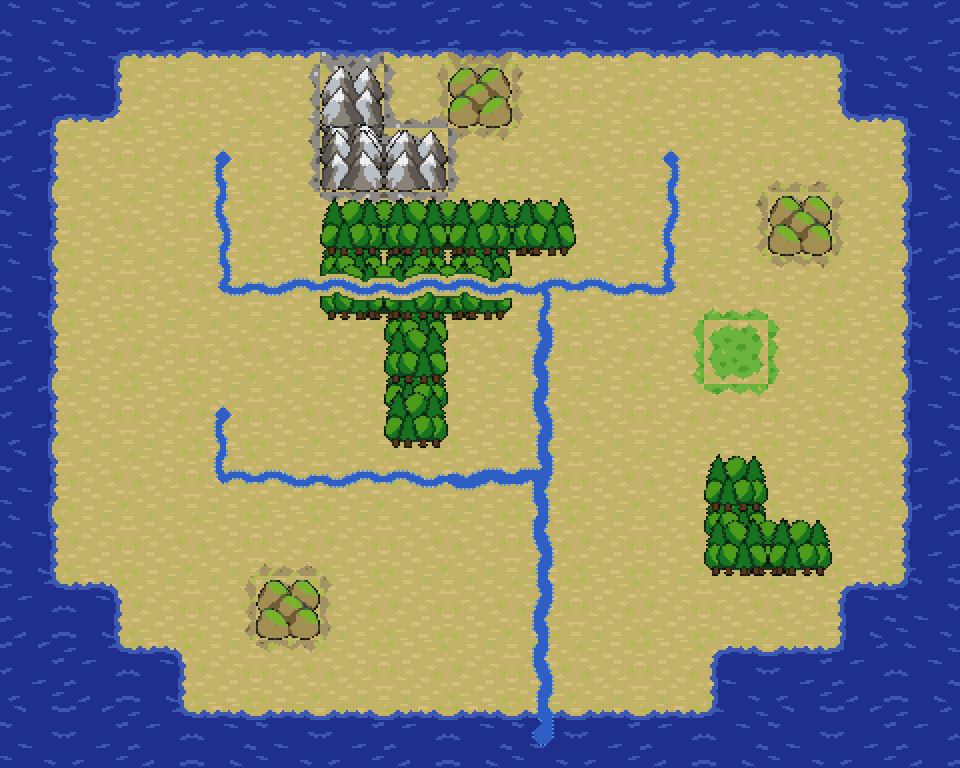
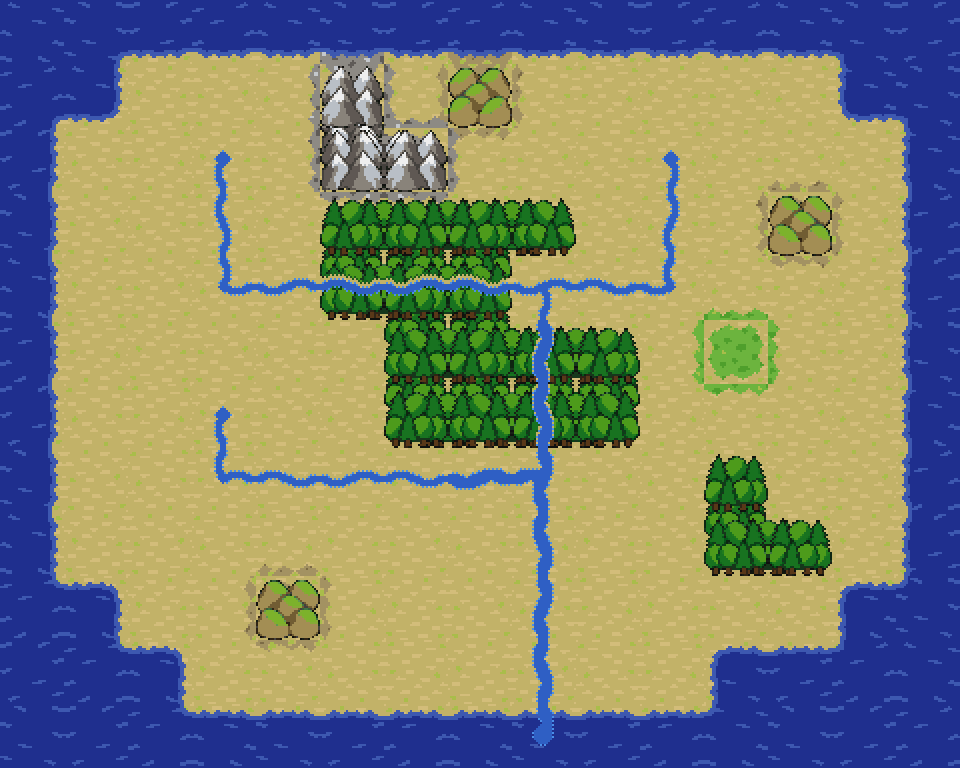
R-1047: cut a forest back from the far bank of its river only
The canopy is taken away under the river and two cells straight above it on the
32 grid (one on the 16), the trees above the cut shaded; the trees on the near
bank and to either side stand right up to the water. The owner's call, for a
hint of perspective. Test: pixel-art.test.ts, "a river runs through a forest".

Changed region(s): [[0.3438, 0.3438, 0.6875, 0.5938]]

diff --git a/test/unit/ui/pixel-art.test.ts b/test/unit/ui/pixel-art.test.ts
@@ -495,7 +495,7 @@ describe('detailed terrain', () => {
     }
   });
 
-  it('a river runs through a forest in a clearing and over the hills and the mountains: every cell of its body and of its rim shows', () => {
+  it('a river runs through a forest, cut back from its far bank, and over the hills and the mountains: every cell of its body and of its rim shows', () => {
     for (const grid of [32, 16] as const) {
       for (const river of ['minor', 'major'] as const) {
         const stroke = overArt(look({ river, riverMask: 10 }), grid);
@@ -505,20 +505,22 @@ describe('detailed terrain', () => {
             const bare = overArt(look({ variant, river, riverMask: 10 }), grid);
             const over = overArt(look({ terrain, variant, river, riverMask: 10 }), grid);
             for (let i = 0; i < bare.cells.length; i++) if (bare.cells[i] !== 0) expect(over.cells[i], `${grid} ${terrain} ${variant}`).toBe(bare.cells[i]);
-            // a forest is cut back from the water (two cells on the 32 grid, one on the 16) and shaded at the cut;
-            // the hills and the mountains are not: the river lies on them
+            // a forest is cut back from the far bank alone: no canopy within two cells straight above the water on
+            // the 32 grid (one on the 16), the trees just above the cut shaded, and every other cell as it was,
+            // so the trees on the near bank and to either side stand right up to the water; the hills and the
+            // mountains are not cut at all: the river lies on them
             const dry = overArt(look({ terrain, variant }), grid);
             const reach = grid === 32 ? 2 : 1;
             const wet = (x: number, y: number): boolean => at(bare, x, y) !== 0;
-            const near = (x: number, y: number, by: number): boolean => Array.from({ length: 2 * by + 1 }, (_, j) => j - by).some((dy) => Array.from({ length: 2 * by + 1 }, (_, j) => j - by).some((dx) => wet(x + dx, y + dy)));
+            const above = (x: number, y: number, by: number): boolean => Array.from({ length: by }, (_, j) => j + 1).some((dy) => wet(x, y + dy));
             let shaded = 0;
             for (let y = 0; y < grid; y++) {
               for (let x = 0; x < grid; x++) {
                 if (wet(x, y)) continue;
                 const where = `${grid} ${terrain} ${variant} (${x}, ${y})`;
                 if (!(FORESTS as readonly string[]).includes(terrain)) expect(at(over, x, y), where).toBe(at(dry, x, y));
-                else if (near(x, y, reach)) expect(at(over, x, y), where).toBe(0);
-                else if (!near(x, y, reach + 1)) expect(at(over, x, y), where).toBe(at(dry, x, y));
+                else if (above(x, y, reach)) expect(at(over, x, y), where).toBe(0);
+                else if (!above(x, y, reach + 1)) expect(at(over, x, y), where).toBe(at(dry, x, y));
                 else if (at(over, x, y) !== at(dry, x, y)) {
                   expect(at(over, x, y) - 1, where).toBe(INK.deepForest);
                   shaded++;

diff --git a/src/ui/pixel-art.ts b/src/ui/pixel-art.ts
@@ -853,10 +853,11 @@ function joined(s: Sprite, look: TileLook): void {
 }
 
 /**
- * A river's way through a forest: the canopy is cut back from the water, so that the river runs through the
- * trees on open ground and not over their crowns. Every cell of the forest within `CLEARING` cells of the
- * river (body or rim, corners counted) is taken away, and the trees left standing at the cut are shaded, as
- * the foot of a wood is.
+ * A river's way through a forest: the canopy is cut back from the water's far bank alone, so that the river
+ * runs through the trees and not over their crowns. Every cell of the forest with river (body or rim) under
+ * it or within `CLEARING` cells straight below it is taken away, and the trees left standing above the cut
+ * are shaded, as the foot of a wood is. The trees on the near bank and to either side stand right up to the
+ * water, which is what makes the far bank read as lying behind it.
  */
 const CLEARING: Readonly<Record<TileGrid, number>> = { 32: 2, 16: 1 };
 function cleared(s: Sprite, water: Sprite): void {
@@ -865,23 +866,24 @@ function cleared(s: Sprite, water: Sprite): void {
   for (let y = 0; y < s.size; y++) {
     for (let x = 0; x < s.size; x++) {
       if (at(s, x, y) === 0) continue;
-      let near = false;
-      for (let dy = -reach; dy <= reach && !near; dy++) for (let dx = -reach; dx <= reach && !near; dx++) near = at(water, x + dx, y + dy) !== 0;
-      if (near) cut.push(y * s.size + x);
+      for (let dy = 0; dy <= reach; dy++) {
+        if (at(water, x, y + dy) === 0) continue;
+        cut.push(y * s.size + x);
+        break;
+      }
     }
   }
   for (const i of cut) s.cells[i] = 0;
-  const gone = new Set(cut);
   for (const i of cut) {
     const [x, y] = [i % s.size, Math.floor(i / s.size)];
-    for (const [dx, dy] of TOWARD) if (at(s, x + dx, y + dy) !== 0 && !gone.has((y + dy) * s.size + x + dx)) dot(s, x + dx, y + dy, INK.deepForest);
+    if (at(s, x, y - 1) !== 0) dot(s, x, y - 1, INK.deepForest);
   }
 }
 
 /**
  * Everything that stands on a square's floor, see-through elsewhere, in this order: the joins (the forest,
  * hills or mountains once more toward each neighbour of its kind); the forest, hills or mountains; furrows;
- * the river, which lies on hills and mountains and runs through a forest in a clearing cut for it, since a
+ * the river, which lies on hills and mountains and runs through a forest with the canopy cut back from its far bank, since a
  * canopy that fills its square would hide it, or on a water square the mouths of the rivers beside it; the resource marker, at its own size; the lost-city seal,
  * drawn for the grid; the road; the totem. The forest or relief is the baked picture of the grid, and the
  * river and the mouths are drawn for the grid, body and rim. On the 32-pixel grid the furrows, the road and

diff --git a/docs/ARCHITECTURE.md b/docs/ARCHITECTURE.md
@@ -70,7 +70,7 @@ builds one, what it loads, where it goes, and the answers given in the trade tal
 
 ## `src/ui/`
 `unit-art.ts`, `place-art.ts`, `floor-art.ts` and `feature-art.ts` are the detailed pictures of units, colonies and native settlements, the ground of each terrain, and the forests, hills and mountains that stand on it, on a 32-pixel grid, written by `scripts/bake-art.py` from the pictures kept in `art/` (our own, constraint C1); `pixel-art.ts` adds the owner's colour, the orders tab and the other marks, and `render.ts` and `tiles.ts` use them wherever a square is at least 32 pixels (from there up `view.ts` keeps a square a multiple of 32), falling back to the 16-pixel art below that. The ground and the forests, hills and mountains are baked a second time at 16 pixels in the colours of the 32-pixel bake (`FLOOR_ART_16`, `FEATURE_ART_16`, R-1042), and the 16-pixel grid draws those, turned by the variant as the 32-pixel grid turns its own, so that the third zoom is the same painted world as the two nearest; the ground, trees and relief drawn in code remain only for a terrain that has no baked picture. `resource-art.ts` is the marker of each special resource, baked the same way from `art/resources` at 24 pixels and again at 12 in the same colours: `pixel-art.ts` stamps the one in the middle of a 32-pixel square and the other in the middle of a 16-pixel one, after the forest and before the road. How a picture is generated, the palette it is painted against and the steps from a source picture to a baked file are in `docs/ART.md`; `scripts/contact-sheet.py` lays a folder of the baked sprites out as one labelled sheet to look at.
-A square on the map is drawn in layers above the smallest zoom (R-1041), all of them art in `pixel-art.ts` handed out by `tiles.ts` through the one sprite cache (`floorLayer`, `blendLayer`, `coastLayer`, `overLayer`): the floor of its open terrain (`floorArt(grid, terrain, variant)`, keyed `floor|grid|open|variant`); a little of each differing orthogonal neighbour's floor through that side's stencil (`EDGE_MASKS`, `blendArt`, keyed `blend|grid|side|open|variant`); on a water square with land about it, which is painted as that land (`landBeside` in `render.ts`), the water laid back in four quarters shaped by the land round each (`COAST_MASKS`, `coastArt`, keyed `coast|grid|water|quadrant|code|variant`); and everything that stands on the ground (`overArt(look, grid)`, keyed `over|` and the look's key). `renderGround` chooses the pieces from the map and what the viewer has seen; `tileArt` and `detailedTileArt` remain the whole square, floor under over, for the colony screen (`paintTile`) and the manual's pictures. `docs/VISUAL_CHECKLIST.md` point 13 says what the layers must show. Two masks on a square's look carry what its neighbours add to the over layer (R-1046), both worked out in `render.ts` from squares the viewer has seen and both part of `lookKey`: `joinMask`, the sides on which its forest, hills or mountains run on into the same beyond (`joins` in `pixel-art.ts` says what joins what), where the picture is drawn once more half a square over, under itself; and `mouthMask`, on a water square, the sides from which a river runs out into it, each drawn as the end of that river running to a pool in the middle. A river itself is drawn in code for its grid (R-1047, `river`, `mouths`, `arm`, `pond` and `rim` in `pixel-art.ts`, the numbers in the `RIVER` table): one of sixteen pieces by `riverMask`, made of a winding arm from each side it runs on to, a disc or a pool where they meet, and a broken pale rim along the banks; in a forest the canopy is cut back from it first (`cleared`), so that it runs through the trees and not over them; the smallest zoom draws a line one cell wide (`miniTileArt`). Point 15 of the checklist gives the over layer's order.
+A square on the map is drawn in layers above the smallest zoom (R-1041), all of them art in `pixel-art.ts` handed out by `tiles.ts` through the one sprite cache (`floorLayer`, `blendLayer`, `coastLayer`, `overLayer`): the floor of its open terrain (`floorArt(grid, terrain, variant)`, keyed `floor|grid|open|variant`); a little of each differing orthogonal neighbour's floor through that side's stencil (`EDGE_MASKS`, `blendArt`, keyed `blend|grid|side|open|variant`); on a water square with land about it, which is painted as that land (`landBeside` in `render.ts`), the water laid back in four quarters shaped by the land round each (`COAST_MASKS`, `coastArt`, keyed `coast|grid|water|quadrant|code|variant`); and everything that stands on the ground (`overArt(look, grid)`, keyed `over|` and the look's key). `renderGround` chooses the pieces from the map and what the viewer has seen; `tileArt` and `detailedTileArt` remain the whole square, floor under over, for the colony screen (`paintTile`) and the manual's pictures. `docs/VISUAL_CHECKLIST.md` point 13 says what the layers must show. Two masks on a square's look carry what its neighbours add to the over layer (R-1046), both worked out in `render.ts` from squares the viewer has seen and both part of `lookKey`: `joinMask`, the sides on which its forest, hills or mountains run on into the same beyond (`joins` in `pixel-art.ts` says what joins what), where the picture is drawn once more half a square over, under itself; and `mouthMask`, on a water square, the sides from which a river runs out into it, each drawn as the end of that river running to a pool in the middle. A river itself is drawn in code for its grid (R-1047, `river`, `mouths`, `arm`, `pond` and `rim` in `pixel-art.ts`, the numbers in the `RIVER` table): one of sixteen pieces by `riverMask`, made of a winding arm from each side it runs on to, a disc or a pool where they meet, and a broken pale rim along the banks; in a forest the canopy is cut back from its far bank first (`cleared`), so that it runs through the trees and not over them; the smallest zoom draws a line one cell wide (`miniTileArt`). Point 15 of the checklist gives the over layer's order.
 `chart.ts` and `chart-art.ts` are the explorer's chart the unexplored map is drawn as: `chart.ts` says where the compass roses, sea serpents and ships stand, from the map's seed and size alone (pure; one rose to a 24 x 24 region, the others one to an 8 x 8 cell at most), and `chart-art.ts` is the vellum floor and those pictures at 32, 16 and 8 pixels to the square, drawn by `scripts/draw-chart.py` into `art/chart/` and written out by `scripts/bake-art.py chart` in six inks of the map palette. `pixel-art.ts` turns them into sprites and adds the ink hatching along the edges of a vellum square that meet the known (an edge mask over the eight neighbours); `render.ts` draws a mark only while every square it covers is unexplored.
 `building-art.ts` and `goods-art.ts` are the colony screen's pictures (R-1013): one per building on the 32-pixel grid, roofed in the owner's colour, and one icon per good (and for hammers, crosses and bells) on the 16-pixel grid. Their sources in `art/buildings` and `art/goods` are drawn from plain shapes by `scripts/draw-colony-art.py` and baked by `scripts/bake-art.py buildings goods`. `pixel-art.ts` turns them into sprites (`buildingArt`, `goodArt`, `figureArt`), draws the flags of the four powers and the Crown (`flagArt`), and exports `drawGood` and `drawSprite` for any screen that paints them on a canvas; `colony-screen.ts` shows each building as its picture with its workers standing on it.
 `portraits.ts` and `portrait-art.ts` are the faces (R-1016): the four advisers (one per report module in `reports/`), the King, and each founding father, a head and shoulders 64 art pixels square in colours of the map palette alone, baked from `art/portraits` by `scripts/bake-art.py portraits`. The faces are invented; none is a likeness of a historical person. `portraits.ts` turns one into palette numbers, RGBA bytes or a canvas shown at a whole number of screen pixels to the art pixel; an adviser's coat is a key that takes the colour of the wax its report is sealed with. They are shown at the head of each report, at the head of each line of the Continental Congress report, in the dialogs the Crown and the Congress put to the player (`dialog.ts` takes a picture for the question and one per choice), and on a father's page of the encyclopedia.

diff --git a/docs/VISUAL_CHECKLIST.md b/docs/VISUAL_CHECKLIST.md
@@ -17,7 +17,7 @@ same renderer in the unit suite.
 |---|---|---|
 | 1 | Everything drawn in code is in one palette of 32 colours (`PALETTE` in `src/ui/pixel-art.ts`; the values and what each is for are in `docs/ART.md`). Every pixel on the canvas is a colour of that palette or of the baked pictures' own sets, which together are `ART_COLORS`, at most 255. | unit: the palette's 32 entries are distinct and pinned by value; `render.ts`, `tiles.ts`, `minimap.ts` contain no colour literals; `ART_COLORS` fits in a byte; every baked floor's commonest colour is its terrain's ground colour, and water is never the flat colour of any land. The reference canvas refuses a fill colour outside `PALETTE`. e2e: every canvas pixel at every zoom is a colour of `ART_COLORS`. |
 | 2 | One pixel grid: art is 16 x 16 to the square; squares are 64, 32, 16 or 8 pixels, so an art pixel is 4, 2, 1 or (halved art) 1 pixel. No smoothing. | unit: `tileSizeFor` gives multiples of 8; art is 16 x 16. e2e: no off-palette (blended) pixels. |
-| 3 | Every terrain can be told apart, open from wooded, hills and mountains by their shapes; rivers, roads, plowed fields, resources and rumors show. The ground and what stands on it are baked pictures on the 32 grid and smaller copies of the same pictures, in the same colours, on the 16 grid (R-1042): each ground textured in its own palette colour, each of the eight forests a canopy that fills its square and is told by its trees (spruce, pine, pine among round crowns, round crowns with autumn orange, palms, cypress in water, jungle, thorny bushes). A river is one of sixteen pieces by the sides it runs on to (`riverMask`), which are five shapes turned: an end, a straight, a bend, a tee and a cross, the cross also where it runs on to no side (R-1047). A neighbour the viewer has not seen continues nothing, so the piece tells nothing of the square beyond it; a river left with no side to run on to that way is a pool alone. It is drawn for its grid: a body of `blue` three art pixels wide for a minor river and five for a major one on the 32 grid, two and three on the 16, crossing each side on exactly the middle cells of that side so that two squares meet cell for cell; each arm winds a little to the right of the way in (the variant mirrors it), so opposite arms make an S; a bend, a tee and a cross meet in a disc a cell wider than the body, and an end has a pool there; every other cell along both banks is `brightBlue`, a broken pale rim that never touches itself, lies on no body cell and keeps off the outermost cells of the square. Through a forest it runs in a clearing: the canopy, joins and all, is cut back two art pixels from the water on the 32 grid and one on the 16, the ground showing on both banks, and the trees left at the cut are shaded `deepForest`; over hills and mountains it is simply laid on top. At the farthest zoom a river is a line one cell wide from the middle cell to the middle of each side, with no rim. A special resource is marked by a picture of the thing itself in the middle of its square, three quarters of the square across with a dark outline (24 art pixels on the 32 grid, a 12-pixel copy on the 16 grid, nothing at the farthest zoom), drawn over the forest and under the road. A Lost City Rumor is a round gold seal (`rumorSealArt`: yellow shaded orange, an ink rim, a white glint, a stepped pyramid in wood) filling the lower left quarter of the square on the 32 and 16 grids and a gold dot on the 8; it stands over the resource marker's corner and under a road, and the colony view's totem keeps to the upper left quarter. | unit: all terrain art distinct; features change the art; the river's pieces (the cells on each side, the quarter turns, the mirrored variant, the S, the rim, the pool, the line at the farthest zoom); thirteen distinct markers at both sizes, each within the middle of the square, over the trees and under the road; the seal's inks, quarter and roundness at each grid, whole over every resource's marker, clear of the totem. e2e sheet baseline. |
+| 3 | Every terrain can be told apart, open from wooded, hills and mountains by their shapes; rivers, roads, plowed fields, resources and rumors show. The ground and what stands on it are baked pictures on the 32 grid and smaller copies of the same pictures, in the same colours, on the 16 grid (R-1042): each ground textured in its own palette colour, each of the eight forests a canopy that fills its square and is told by its trees (spruce, pine, pine among round crowns, round crowns with autumn orange, palms, cypress in water, jungle, thorny bushes). A river is one of sixteen pieces by the sides it runs on to (`riverMask`), which are five shapes turned: an end, a straight, a bend, a tee and a cross, the cross also where it runs on to no side (R-1047). A neighbour the viewer has not seen continues nothing, so the piece tells nothing of the square beyond it; a river left with no side to run on to that way is a pool alone. It is drawn for its grid: a body of `blue` three art pixels wide for a minor river and five for a major one on the 32 grid, two and three on the 16, crossing each side on exactly the middle cells of that side so that two squares meet cell for cell; each arm winds a little to the right of the way in (the variant mirrors it), so opposite arms make an S; a bend, a tee and a cross meet in a disc a cell wider than the body, and an end has a pool there; every other cell along both banks is `brightBlue`, a broken pale rim that never touches itself, lies on no body cell and keeps off the outermost cells of the square. Through a forest it runs among the trees: the canopy, joins and all, is cut back from the far (north) bank alone, two art pixels straight above the water on the 32 grid and one on the 16, the ground showing there and the trees above the cut shaded `deepForest`, while the trees on the near bank and to either side stand right up to the water, which makes the far bank read as behind it; over hills and mountains it is simply laid on top. At the farthest zoom a river is a line one cell wide from the middle cell to the middle of each side, with no rim. A special resource is marked by a picture of the thing itself in the middle of its square, three quarters of the square across with a dark outline (24 art pixels on the 32 grid, a 12-pixel copy on the 16 grid, nothing at the farthest zoom), drawn over the forest and under the road. A Lost City Rumor is a round gold seal (`rumorSealArt`: yellow shaded orange, an ink rim, a white glint, a stepped pyramid in wood) filling the lower left quarter of the square on the 32 and 16 grids and a gold dot on the 8; it stands over the resource marker's corner and under a road, and the colony view's totem keeps to the upper left quarter. | unit: all terrain art distinct; features change the art; the river's pieces (the cells on each side, the quarter turns, the mirrored variant, the S, the rim, the pool, the line at the farthest zoom); thirteen distinct markers at both sizes, each within the middle of the square, over the trees and under the road; the seal's inks, quarter and roundness at each grid, whole over every resource's marker, clear of the totem. e2e sheet baseline. |
 | 4 | Terrain is readable at every zoom; at the smallest each terrain is one flat colour and forest is never the colour of its open ground. | unit: mini art; e2e: at least 8 colours on screen at zoom 0, 12 at the others. |
 | 5 | Each unit type has its own figure, in a box of its owner's colour: English red, French blue, Spanish yellow, Dutch orange, the Crown white, each native people its own. | unit: 24 distinct pieces; colour follows the owner. e2e: orders box test, sheet baseline. |
 | 6 | European units carry an orders plate at the top left in the owner's colour with the order letter (a count of filled holds on a foreign ship); native bands carry none. A unit standing on others shows a shadow behind it. | unit: plate, label, stack, no plate for natives. |
